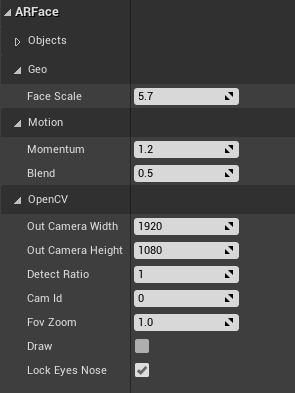
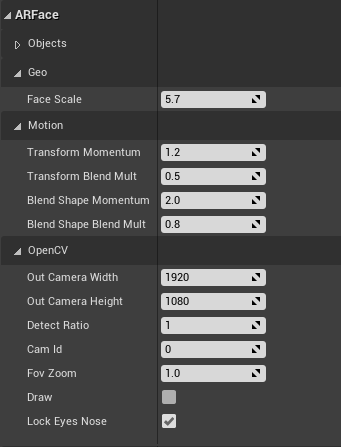
updating momentum attributes

diff --git a/Source/FacialPoseEstimation/Private/ArFaceRig.cpp b/Source/FacialPoseEstimation/Private/ArFaceRig.cpp
@@ -51,8 +51,10 @@ AArFaceRig::AArFaceRig()
 	FaceScale = 5.7;
 
 	// Momentum smoothing parameters
-	Momentum = 1.2;
-	Blend = .5;
+	TransformMomentum = 1.2;
+	TransformBlendMult = .5;
+	BlendShapeMomentum = 2.0;
+	BlendShapeBlendMult = .8;
 
 	// Transform blend values
 	PrevRotation = FRotator(0, 0, 0);
@@ -132,9 +134,7 @@ void AArFaceRig::SetBlendShapes(float* Blendshapes)
 	int count = 0;
 	for (auto blendshape : BlendShapeArray)
 	{
-		FaceMesh->SetMorphTarget(FName(blendshape),
-			Blendshapes[count]);
-
+		FaceMesh->SetMorphTarget(FName(blendshape), Blendshapes[count]);
 		count++;
 	}
 }
@@ -163,20 +163,20 @@ void AArFaceRig::SetTransforms(FVector Up, FVector Forward, FVector Translation)
 	// Guess next transform
 	FRotator RotGuess = FMath::Lerp(PrevRotation,
 		CurrentRot,
-		Momentum);
+		TransformMomentum);
 
 	FVector TranGuess = FMath::Lerp(PrevPosition,
 		CurrenTran,
-		Momentum);
+		TransformMomentum);
 
 	// Store previous frame
 	PrevRotation = CurrentRot;
 	PrevPosition = CurrenTran;
 
 	// Blend with prediction
-	RotGuess = FMath::Lerp(RotGuess, NewRot.Rotator(), Blend);
+	RotGuess = FMath::Lerp(RotGuess, NewRot.Rotator(), TransformBlendMult);
 
-	TranGuess = FMath::Lerp(TranGuess, Translation, Blend);
+	TranGuess = FMath::Lerp(TranGuess, Translation, TransformBlendMult);
 
 	// Set transform
 	FTransform FinalTransform(RotGuess,
@@ -229,10 +229,10 @@ void AArFaceRig::RunDLL()
 	for (int i = 0; i < 51; i++)
 	{
 		// Calc momentum
-		float BlendVal = BlendValues[i] + ((BlendValues[i] - PrevBlendValues[i]) * Momentum);
+		float BlendVal = BlendValues[i] + ((BlendValues[i] - PrevBlendValues[i]) * BlendShapeMomentum);
 
 		// Blend with prediction
-		BlendVal = FMath::Lerp(BlendVal, outExpression[i], Blend);
+		BlendVal = FMath::Lerp(BlendVal, outExpression[i], BlendShapeBlendMult);
 
 		PrevBlendValues[i] = BlendValues[i];
 		BlendValues[i] = BlendVal;

diff --git a/Source/FacialPoseEstimation/Public/ArFaceRig.h b/Source/FacialPoseEstimation/Public/ArFaceRig.h
@@ -58,10 +58,18 @@ public:
 
 	/** Face motion blending parameters */
 	UPROPERTY(EditAnywhere, BlueprintReadWrite, Category = "ArFace | Motion")
-	float Momentum;
+	float TransformMomentum;
 
 	UPROPERTY(EditAnywhere, BlueprintReadWrite, Category = "ArFace | Motion")
-	float Blend;
+	float TransformBlendMult;
+
+	/** Face motion blending parameters */
+	UPROPERTY(EditAnywhere, BlueprintReadWrite, Category = "ArFace | Motion")
+	float BlendShapeMomentum;
+
+	UPROPERTY(EditAnywhere, BlueprintReadWrite, Category = "ArFace | Motion")
+	float BlendShapeBlendMult;
+
 
 	/** Resolution attained by OpenCV */
 	UPROPERTY(EditAnywhere, BlueprintReadWrite, Category = "ArFace | OpenCV")
